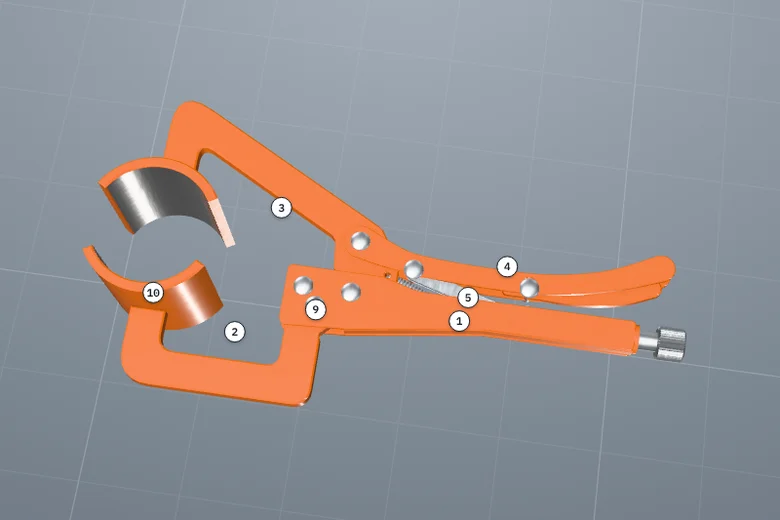
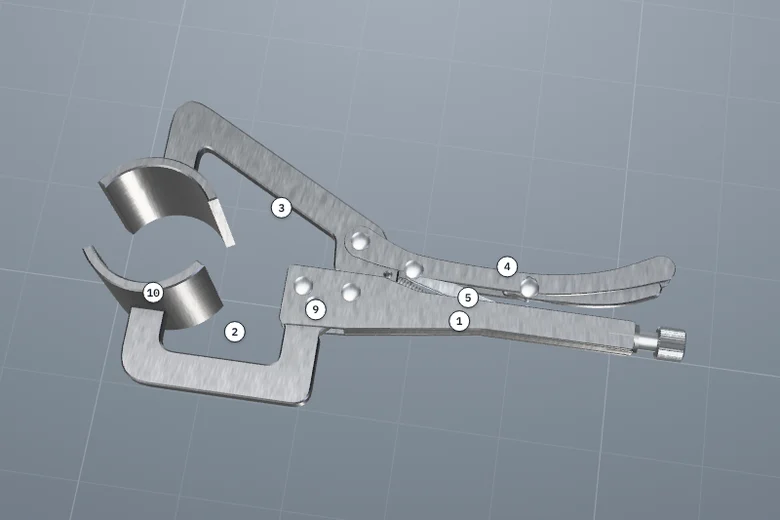
Pince pour tube intérieur : acier nu, de couleur métallique, au lieu de l'orange (demande du client)
Matière, fiche, schéma (P03), vignette, index et README mis à jour.

Claude-Session: https://claude.ai/code/session_015N4WsqrNgzWFL8axJkBYkL

Changed region(s): [[0.0923, 0.1846, 0.8923, 0.8]]

diff --git a/src/models/pince-tube-interieur/index.js b/src/models/pince-tube-interieur/index.js
@@ -6,7 +6,8 @@
 //    (92-1005 simple, 92-1006 double) : pince orange à patins carrés ;
 //  - une photo d'atelier d'une pince du même genre dont les patins sont deux
 //    coquilles rondes (bouts de tuyau fendu) soudées aux becs.
-// Demande du client : la pince de la page TIME, mais à patins ronds.
+// Demande du client : la pince de la page TIME, mais à patins ronds, et de
+// couleur métallique (acier nu, comme sur sa photo d'atelier) plutôt qu'orange.
 //
 // Rien n'est publié sur les dimensions. La pince de la photo TIME est prise
 // pour une pince-étau en C de 11 po (280 mm), la grandeur courante : c'est
@@ -182,18 +183,18 @@ function plaque(contour, z0, z1, matiere, trous = []) {
   return new THREE.Mesh(creaseNormals(geo), typeof matiere === 'string' ? mat(matiere) : matiere);
 }
 
-// Peinture orange de la pince TIME (plus vive que l'orange de la palette), créée une fois.
-let peinture = null;
-function orange() {
-  if (!peinture) {
-    peinture = new THREE.MeshPhysicalMaterial({ color: 0xf07410, metalness: 0, roughness: 0.4, clearcoat: 0.7, clearcoatRoughness: 0.18 });
-    peinture.polygonOffset = true;
-    peinture.polygonOffsetFactor = 1;
-    peinture.polygonOffsetUnits = 1;
-    peinture.name = 'pince-tube-orange';
-    withFinish(peinture, 'paint');
+// Acier nu de la pince (demande du client : garder la couleur métallique de sa photo d'atelier, pas l'orange de la page TIME), créé une fois.
+let metal = null;
+function acier() {
+  if (!metal) {
+    metal = new THREE.MeshPhysicalMaterial({ color: 0x9a9ea3, metalness: 1, roughness: 0.4 });
+    metal.polygonOffset = true;
+    metal.polygonOffsetFactor = 1;
+    metal.polygonOffsetUnits = 1;
+    metal.name = 'pince-tube-acier';
+    withFinish(metal, 'machined');
   }
-  return peinture;
+  return metal;
 }
 
 // ------------------------------------------------------------------ pièces (repère de l'outil, pince serrée sur le tube)
@@ -203,7 +204,7 @@ const zTole = [[-EP.large / 2, -EP.large / 2 + EP.tole], [EP.large / 2 - EP.tole
 
 /** Repère 1 : corps (poignée fixe) en tôle emboutie, ouvert vers la poignée mobile, bague taraudée au bout. */
 function corps(S) {
-  const g = new THREE.Group(), m = orange();
+  const g = new THREE.Group(), m = acier();
   const flanc = arrondir([[88, 11, 3], [88, -19, 4], [120, -17, 12], [185, -8, 30], [256, -8, 2], [256, 6, 2], [152, 6, 25], [134, 11, 8]]);
   const trous = [[...A, JEU], ...FIXES.map((p) => [...p, JEU])];
   for (const [z0, z1] of zTole) g.add(plaque(flanc, z0, z1, m, trous));
@@ -218,8 +219,8 @@ function corps(S) {
 function coquille(cote) {
   const g = new THREE.Group(), demi = COQUILLE.angle / 2, a0 = cote * 90 - demi, a1 = cote * 90 + demi;
   const contour = [...arc(TUBE.x, TUBE.y, R_EXT, a0, a1, 28), ...arc(TUBE.x, TUBE.y, R_INT, a1, a0, 28)];
-  g.add(plaque(contour, -COQUILLE.long / 2, COQUILLE.long / 2, orange()));
-  // Intérieur laissé à nu (acier), comme l'intérieur des patins de la photo.
+  g.add(plaque(contour, -COQUILLE.long / 2, COQUILLE.long / 2, acier()));
+  // Intérieur plus clair : acier poli par le frottement du tube.
   const r = R_INT - 0.12, h = COQUILLE.long / 2 - 1, n = 28, pos = [], nor = [], idx = [];
   for (let i = 0; i <= n; i++) {
     const a = (a0 + 1.5 + ((a1 - a0 - 3) * i) / n) * RAD, c = Math.cos(a), s = Math.sin(a);
@@ -244,7 +245,7 @@ function machoireFixe() {
   ]);
   // Dégagement rond autour du moyeu de la mâchoire mobile.
   contour.push(...arc(A[0], A[1], 10.5, 262, 145.2, 14));
-  return plaque(contour, -EP.machoire / 2, EP.machoire / 2, orange(), FIXES.map((p) => [...p, JEU]));
+  return plaque(contour, -EP.machoire / 2, EP.machoire / 2, acier(), FIXES.map((p) => [...p, JEU]));
 }
 
 /** Repère 3 : mâchoire mobile en C — moyeu percé pour son pivot (A), pour la poignée (B) et pour le ressort. */
@@ -255,7 +256,7 @@ function machoireMobile() {
     [TUBE.x + h, 68.5, 5], [108, 28.5, 6], [109.5, 12, 3],
   ]);
   contour.push(...arc(A[0], A[1], 9, 140, 330, 16));
-  return plaque(contour, -EP.machoire / 2, EP.machoire / 2, orange(), [[...A, JEU], [...B0, JEU], [...RESSORT.machoire, 1.4]]);
+  return plaque(contour, -EP.machoire / 2, EP.machoire / 2, acier(), [[...A, JEU], [...B0, JEU], [...RESSORT.machoire, 1.4]]);
 }
 
 // Ligne médiane de la poignée mobile, de son articulation sur la mâchoire jusqu'au bout relevé.
@@ -267,7 +268,7 @@ const largeurPoignee = (i) => {
 
 /** Repère 4 : poignée mobile en tôle emboutie, ouverte vers le corps ; elle chevauche la mâchoire mobile. */
 function poignee() {
-  const g = new THREE.Group(), m = orange();
+  const g = new THREE.Group(), m = acier();
   const flanc = ruban(AXE_POIGNEE, largeurPoignee);
   const trous = [[...B0, JEU], [...C0, JEU], [...LEVIER, JEU]];
   for (const [z0, z1] of zTole) g.add(plaque(flanc, z0, z1, m, trous));
@@ -287,7 +288,7 @@ function biellette() {
 /** Repère 6 : levier de déverrouillage, logé dans la poignée mobile ; son bout dépasse sous celui de la poignée. */
 function levier() {
   const axe = lisse([[194, 14.5], LEVIER.map((v, i) => v - (i ? 2.5 : 0)), [228, 15], [248, 18.5], [263, 25]], 24);
-  return plaque(ruban(axe, (i) => 5 + 4 * (i / 24)), -EP.levier / 2, EP.levier / 2, orange(), [[LEVIER[0], LEVIER[1] - 2.5, JEU]]);
+  return plaque(ruban(axe, (i) => 5 + 4 * (i / 24)), -EP.levier / 2, EP.levier / 2, acier(), [[LEVIER[0], LEVIER[1] - 2.5, JEU]]);
 }
 
 /** Repère 7 : vis de réglage à bouton moleté ; son bout pousse la biellette. */

diff --git a/README.md b/README.md
@@ -934,10 +934,11 @@ pièces (numéro, quantité, page du manuel).
   à partir des cotes du modèle (`src/models/blocs-de-bois/index.js`).
 
 - **Pince pour tube intérieur de carottier, à mâchoires rondes** (`pince-tube-interieur`) :
-  la pince-étau en C orange de la page TIME Limited « Pinces pour tubes
+  la pince-étau en C de la page TIME Limited « Pinces pour tubes
   intérieurs » (92-1005 ; P01), dont les patins carrés sont remplacés par deux
   demi-coquilles rondes soudées aux becs, à la demande du client et d'après sa
-  photo d'atelier (P02). Aucun plan, aucune cote publiée : la pince est prise
+  photo d'atelier (P02) ; acier nu, de couleur métallique, et non orange
+  comme la pince TIME (demande du client). Aucun plan, aucune cote publiée : la pince est prise
   pour une 11 po (280 mm), les rivets sont relevés sur la photo à cette
   échelle ; épaisseurs, biellette cachée dans le corps et coquilles (tube
   intérieur NQ de Ø 55,6 mm, tôle de 4,8 mm, 120°, 70 mm de long) sont
